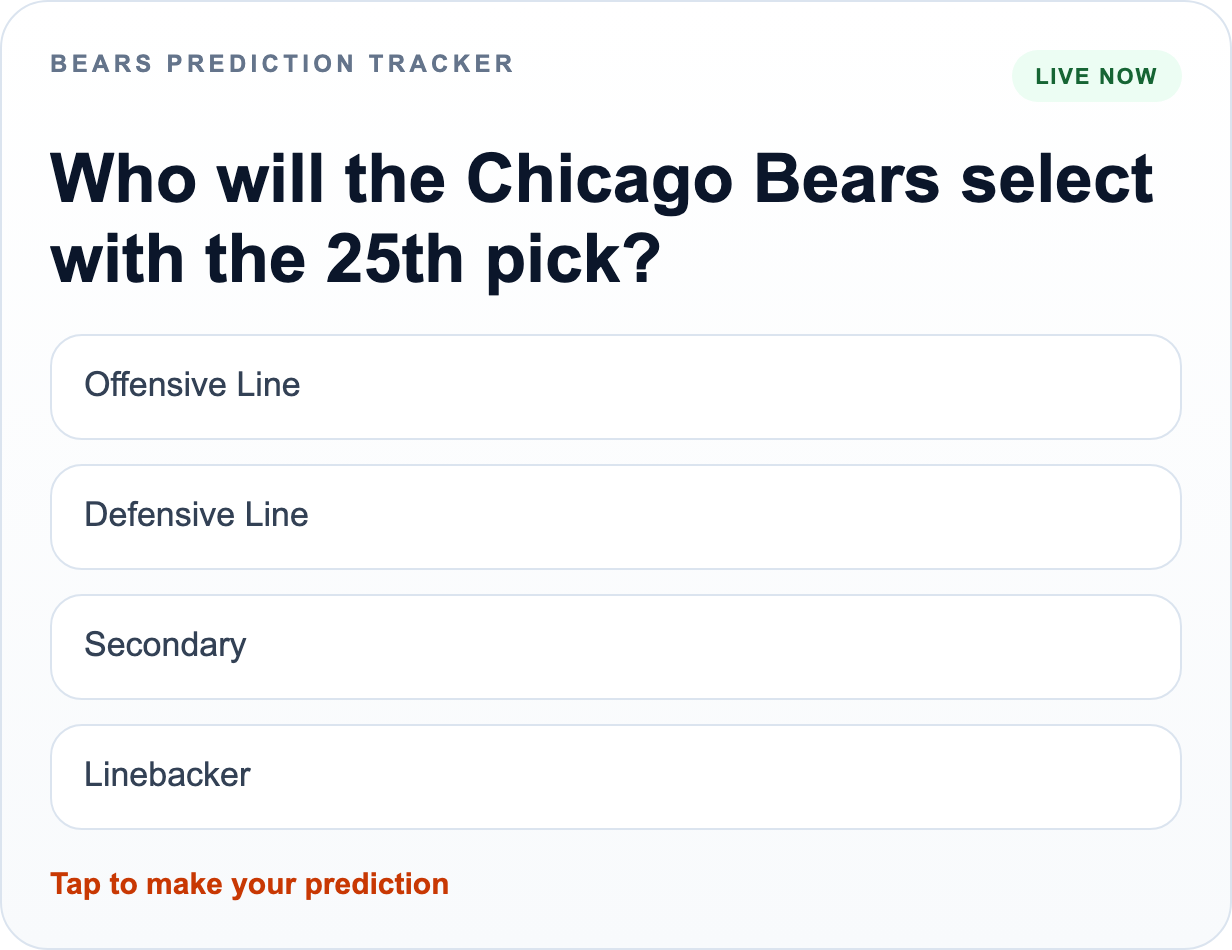
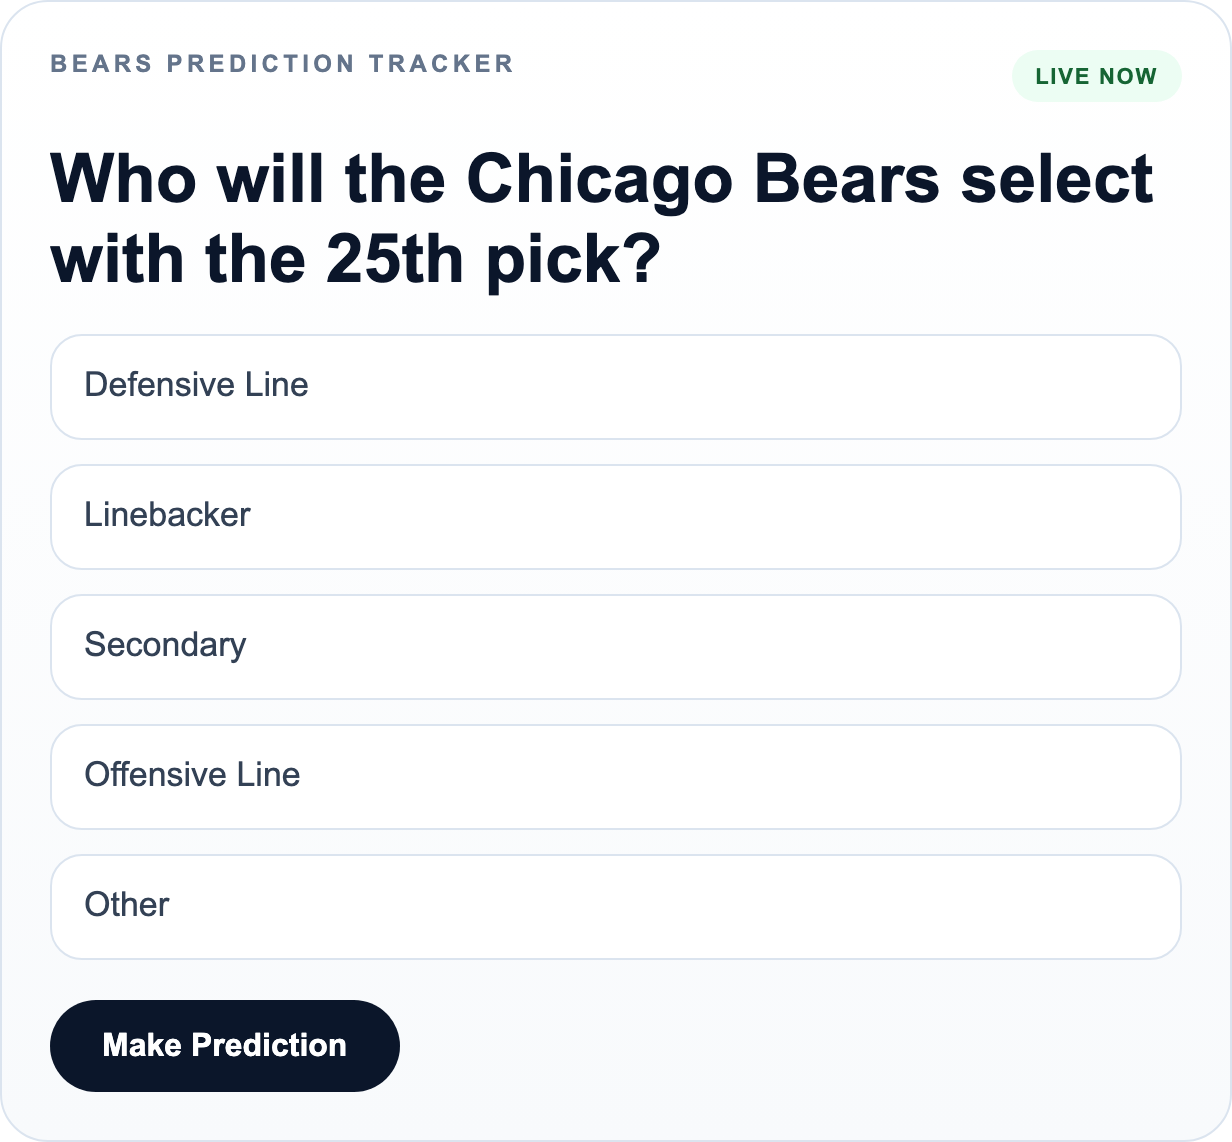
email: refine draft question card copy

diff --git a/src/lib/emailComposer.ts b/src/lib/emailComposer.ts
@@ -67,7 +67,7 @@ export const EMAIL_CTA_LINKS = {
     'https://bearsprediction.com/?auth=login&redirect=%2F%3Fseason%3D2026%26category%3Ddraft_predictions%26question%3Df6a8dc28-c6d7-4ba2-9492-437292ec0d2f',
 } as const;
 
-const EMAIL_ASSET_VERSION = '2026-03-30-4';
+const EMAIL_ASSET_VERSION = '2026-03-30-5';
 
 export const EMAIL_IMAGE_URLS = {
   hero: 'https://bearsprediction.com/email/recap-2025/hero.jpg',
@@ -309,7 +309,7 @@ export function createDefaultRecapDraft(): EmailComposerDraft {
       {
         id: createBlockId('paragraph'),
         type: 'paragraph',
-        text: 'We’re already working on 2026. More questions, more categories, and game-by-game picks. The first question is already live: Who will the Chicago Bears select with the 25th pick? You can make your prediction now, and you’ll have until draft day to lock it in.',
+        text: 'We’re already working on 2026. More questions, more categories, and game-by-game picks. The first question is already live.',
       },
       {
         id: createBlockId('image'),

diff --git a/email-drafts/season-recap-assets/draft-question-live.html b/email-drafts/season-recap-assets/draft-question-live.html
@@ -62,11 +62,15 @@
       .option:last-child {
         margin-bottom: 0;
       }
-      .footer {
-        margin: 18px 0 0;
-        font-size: 15px;
+      .cta {
+        margin-top: 20px;
+        display: inline-block;
+        padding: 14px 26px;
+        border-radius: 999px;
+        background: #0b162a;
+        color: #ffffff;
+        font-size: 16px;
         font-weight: 700;
-        color: #c83803;
       }
     </style>
   </head>
@@ -78,12 +82,13 @@
       </div>
       <h1>Who will the Chicago Bears select with the 25th pick?</h1>
       <ul class="options">
-        <li class="option">Offensive Line</li>
         <li class="option">Defensive Line</li>
-        <li class="option">Secondary</li>
         <li class="option">Linebacker</li>
+        <li class="option">Secondary</li>
+        <li class="option">Offensive Line</li>
+        <li class="option">Other</li>
       </ul>
-      <p class="footer">Tap to make your prediction</p>
+      <div class="cta">Make Prediction</div>
     </div>
   </body>
 </html>
